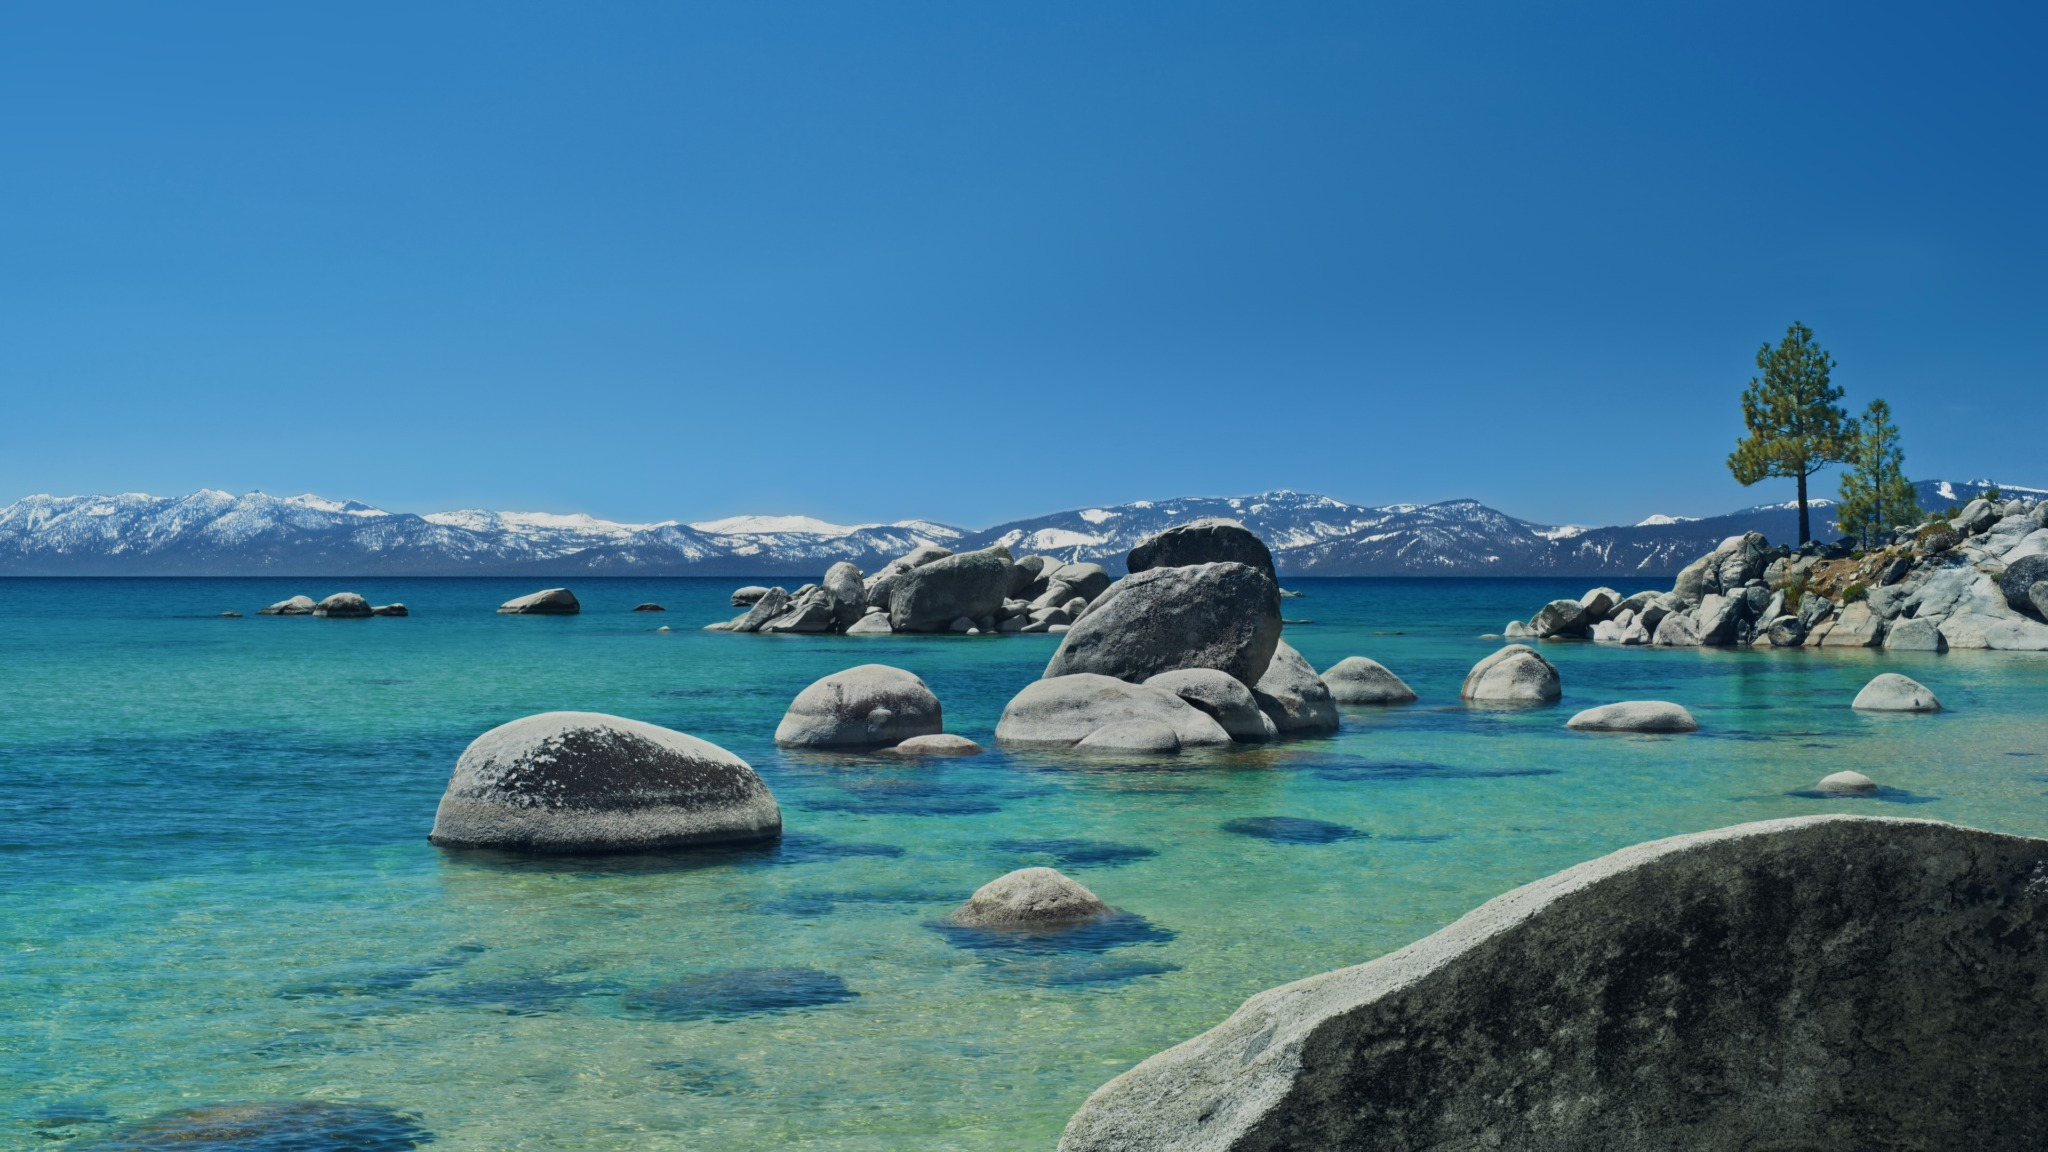
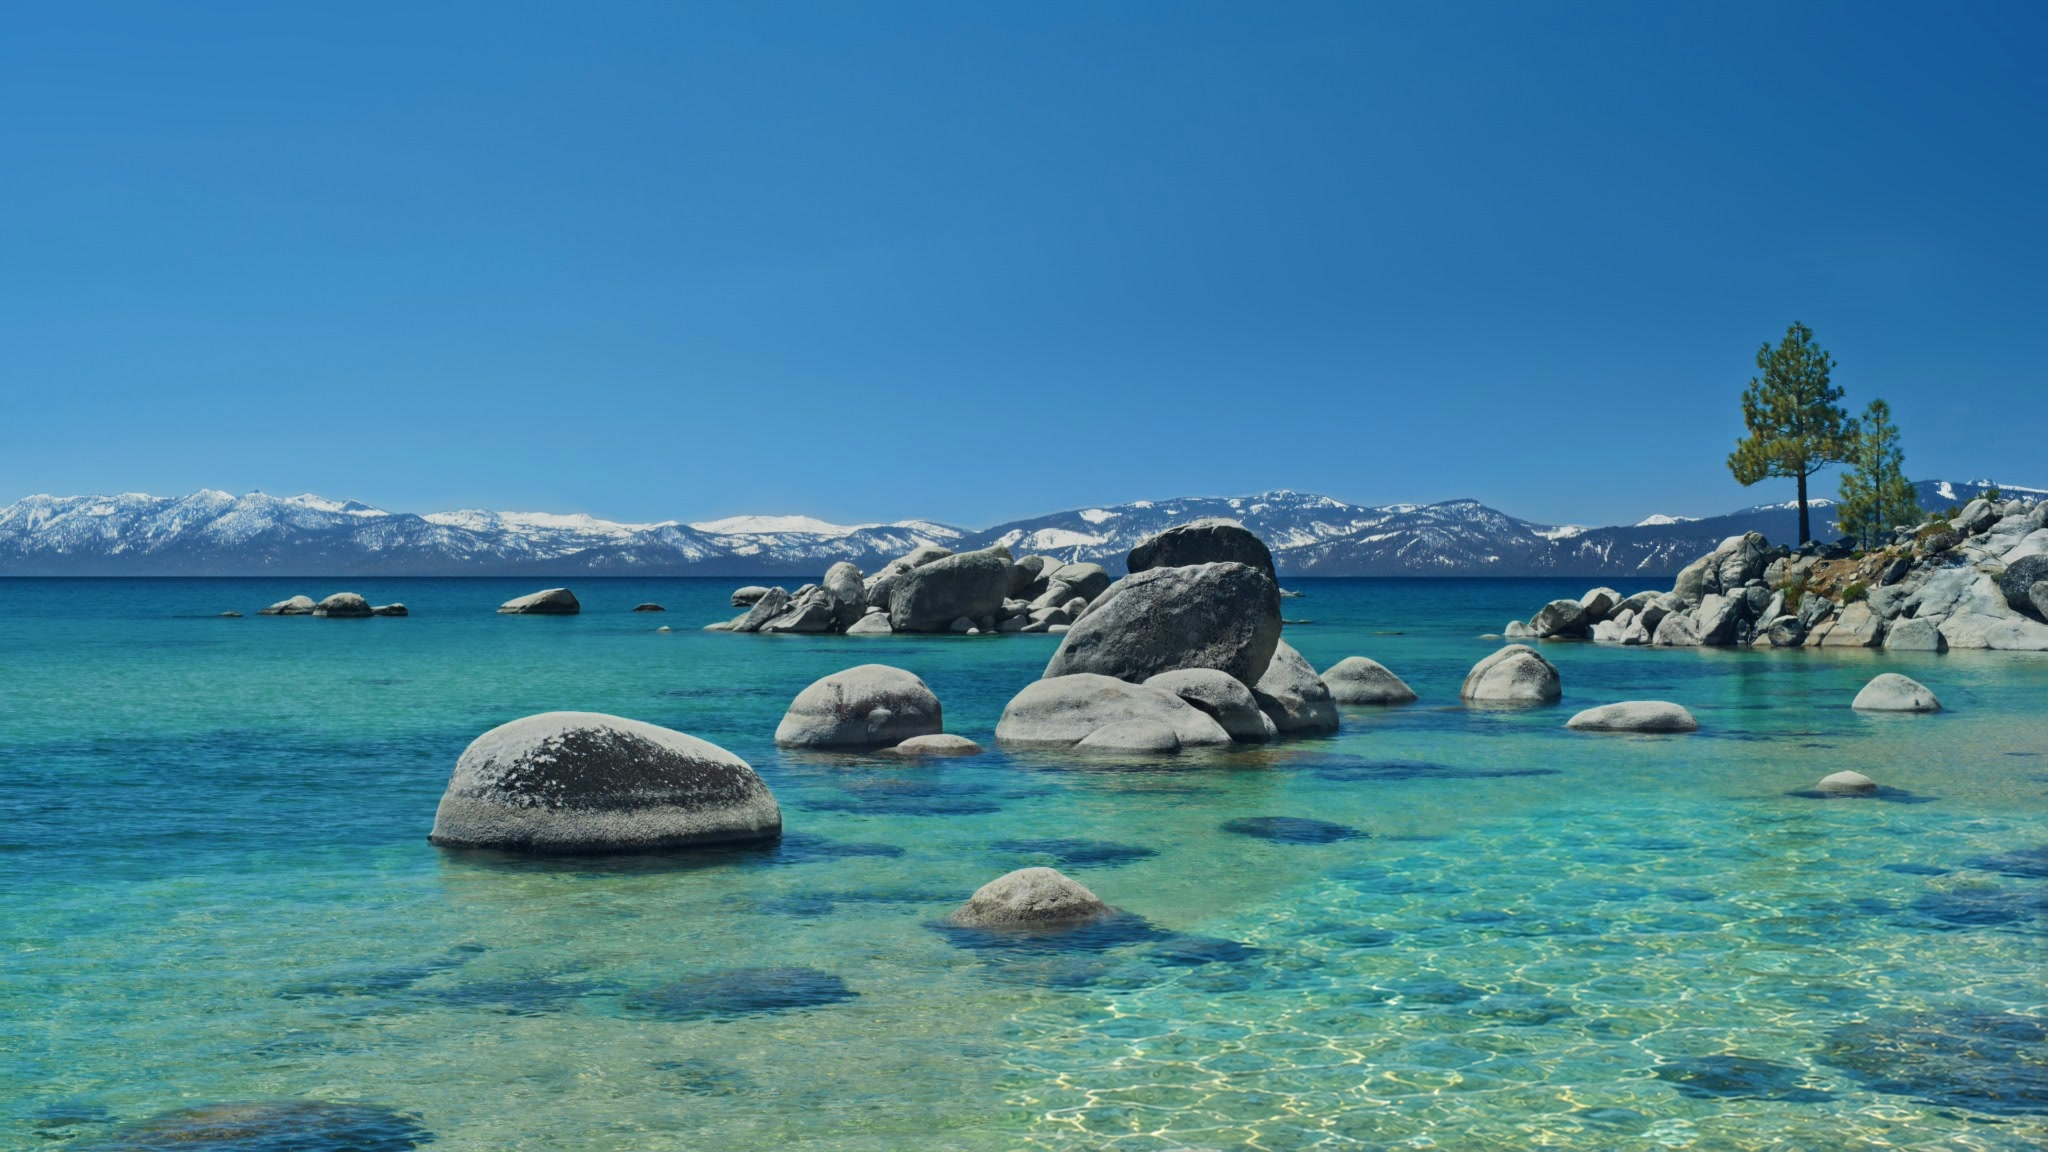
Update Tahoe wallpaper and main-pane glass

Changed region(s): [[0.4688, 0.6875, 1.0, 1.0]]

diff --git a/glass.css b/glass.css
@@ -105,10 +105,10 @@ body {
 /* Current actual main surface. One dark translucent material only. */
 [data-app-shell-main-surface="browser"],
 .MainContentSurface-EnuIYE {
-  background: rgba(var(--cgh-mantle), .61) !important;
+  background: rgba(var(--cgh-mantle), .65) !important;
   background-image: none !important;
-  backdrop-filter: blur(27px) saturate(104%) !important;
-  -webkit-backdrop-filter: blur(27px) saturate(104%) !important;
+  backdrop-filter: blur(30px) saturate(104%) !important;
+  -webkit-backdrop-filter: blur(30px) saturate(104%) !important;
 }
 
 /* Inner scroll/content layers must not introduce another fill. */

diff --git a/README.md b/README.md
@@ -1,9 +1,10 @@
-# ChatGPT Thinking Helper v0.8.5
+# ChatGPT Thinking Helper v0.8.7
 
 Aligned build based on the known-working v0.8.1 behavior, with the lower-overhead navigation tracking from v0.8.0.
 
 - Preserves the working Tahoe wallpaper fallback and glass appearance.
-- Uses the Catppuccin mantle tint at 61% opacity for the main pane.
+- Replaces the large bottom-right foreground boulder with matching lake water while retaining the original image outside the edit mask.
+- Uses the Catppuccin mantle tint at 65% opacity and 30px blur for the main pane.
 - Applies a high-contrast selection highlight across the main reading pane.
 - Keeps the tested picker discovery, focus restoration, and Instant → Medium → High → Instant shortcut cycle.
 - Uses static extension CSS to hide the picker while the shortcut runs.
